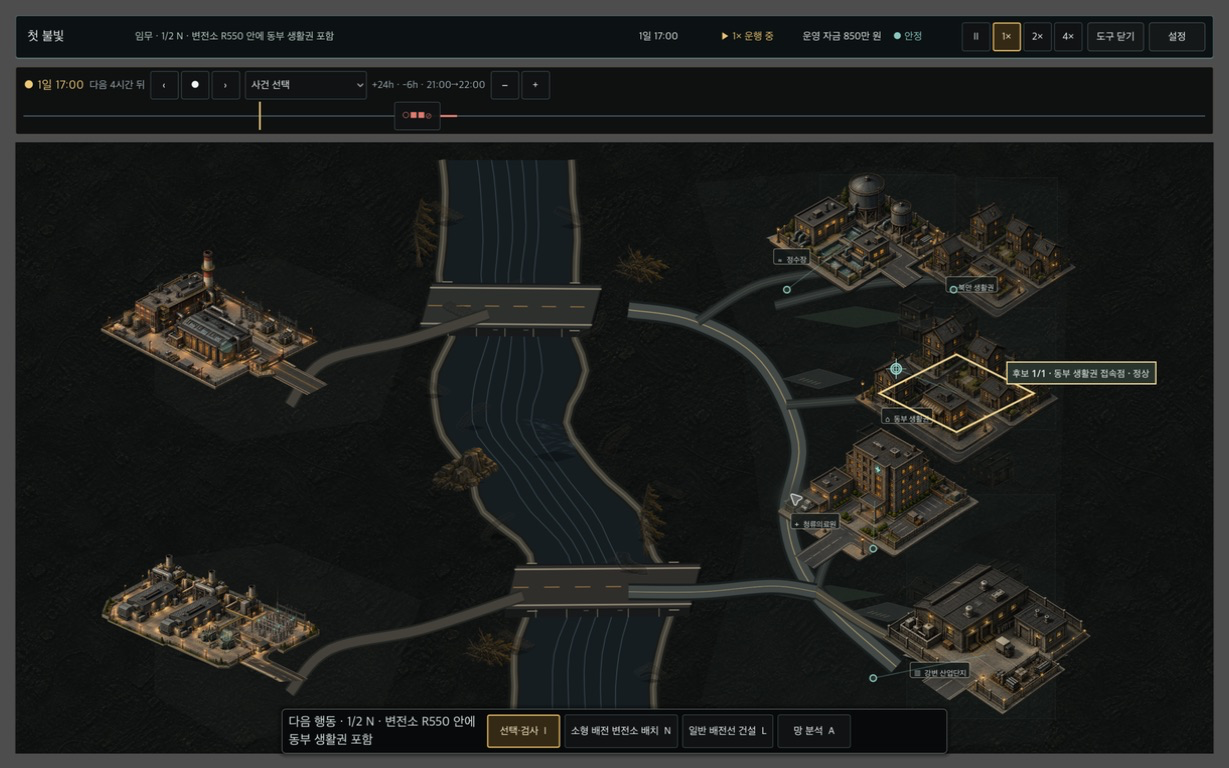
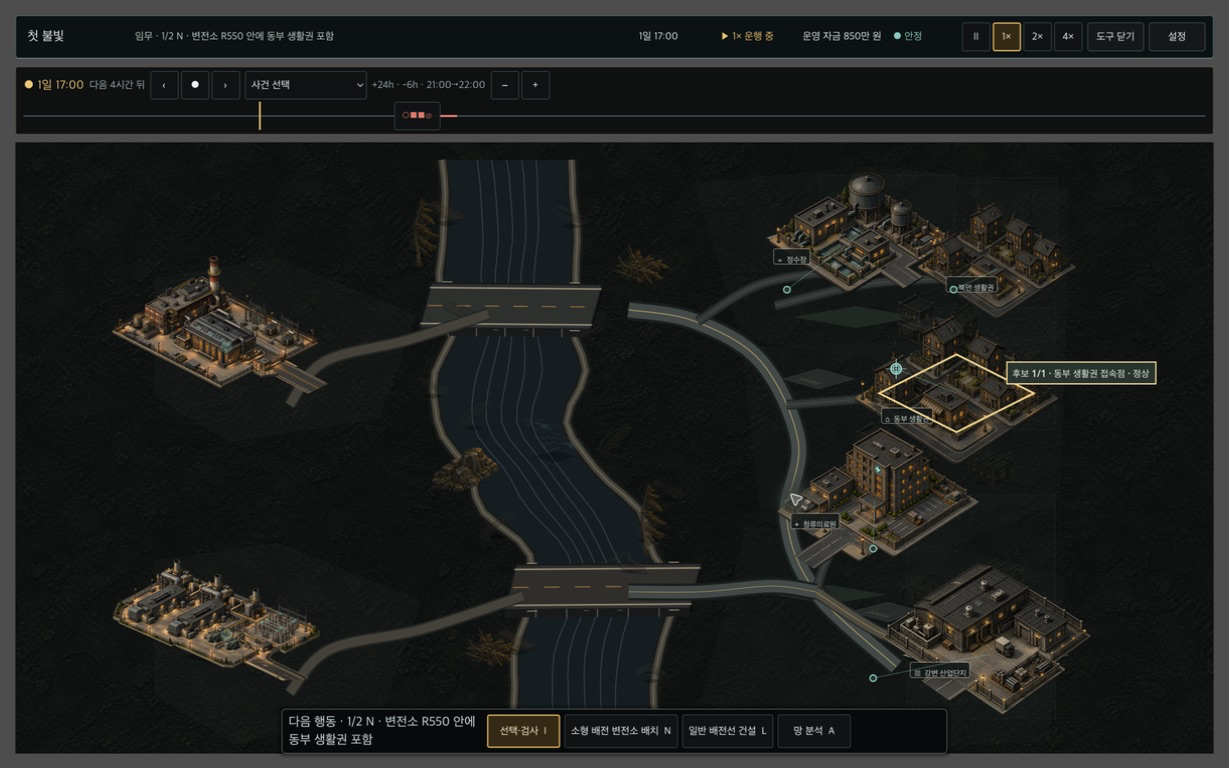
fix: rebalance source campus scale in Godot editor

Changed region(s): [[0.0618, 0.3125, 0.2474, 0.5], [0.0618, 0.7188, 0.2474, 0.9062]]

diff --git a/docs/ACTIVE_SCOPE.md b/docs/ACTIVE_SCOPE.md
@@ -2,29 +2,26 @@
 
 ## 상태
 
-**Godot Editor 직접 campus polish scope가 활성 상태다.**
+**활성 scope가 없다.**
 
-## 단일 결과물
+Godot Editor 직접 campus polish scope는 완료됐다. 실제 Scene tree와 Inspector에서 서부 source Position을
+`(205,720)→(225,720)`, uniform Scale을 `0.518→0.492`로, 남부 source Position을
+`(195,1725)→(215,1725)`, Scale을 `0.484→0.459`로 수정하고 `⌘S` 저장했다. 두 campus의 visual max side는
+각각 약 `800→760`, `780→740` world-unit이 되어 주변 district보다 과도하던 시각 무게가 줄었다. 오른쪽으로
+20 unit 보정해 축소 후에도 service-road gate 접점을 유지한다.
 
-실제 Godot Editor를 열어 서부·남부 발전원 campus의 과대한 시각 무게를 줄이고 service road 접점을 유지한
-배치를 scene에 저장하며, 작업 후 Editor를 열린 상태로 남긴다.
+별도 fresh normal `FIRST_LIGHT` process에서 두 road 연결과 전체 구도를 확인했다. strict scene projection,
+Debug/Release build와 전체 `./dev check`가 PASS했다. Core source 좌표·출력·열·반경·경제·story·save schema와
+PNG는 바꾸지 않았다. 이는 actual Godot Editor 직접 조작과 한 native 화면의 근거이며 사람 미감 승인이나
+package/release gate는 아니다. push·PR·merge·배포는 수행하지 않았다. 최종 authoring scene은 Godot Editor에
+열린 상태로 남긴다.
 
-## 단일 권위
+## 다음 변경을 여는 조건
 
-- 발전원 시각 위치·크기: `RealtimeVisualLayoutAuthoring.tscn`의 source `Sprite2D` transform
+- 읽기·설명·진단은 관련 질문 소유 문서를 read-only로 확인한다.
+- 파일 변경은 사용자가 명시한 결과물 하나를 이 문서에 먼저 연다.
+- 외부 gate 실행, push, PR, merge와 공개 배포는 각각 사용자의 명시적 권한이 있어야 한다.
+- 시작 형식, 최소 검증과 종료 checklist는 [Agent 작업 안내](AGENT_GUIDE.md)를 따른다.
 
-## 범위 안
-
-- Godot Editor Scene tree/Inspector에서 두 source Position과 uniform Scale을 직접 수정한다.
-- normal `FIRST_LIGHT` 재현과 strict projection·회귀를 확인한다.
-- 최종 authoring scene을 실제 Godot Editor에 열린 상태로 남긴다.
-
-## 범위 밖
-
-- Core source 좌표·출력·열·반경·경제·story·save schema, PNG 변경
-- 다른 district/road 재설계, package/release gate, push·PR·merge·배포
-
-## 완료 검사
-
-- 두 source의 strict size/bounds와 service-road 접점 visual 확인
-- fresh normal 재현, targeted UI/check, 문서·scope 종료
+`NEXT_TASKS.md`, [외부 출시 gate](RELEASE_GATES.md), 준비된 코드와 과거 PASS는 자동으로
+구현·평가·배포 권한을 만들지 않는다.

diff --git a/docs/archive/COMPLETED_HISTORY.md b/docs/archive/COMPLETED_HISTORY.md
@@ -632,6 +632,10 @@ node type, metadata, uniform scale, road style와 bounds를 검증한다. Debug/
 `./dev check`가 PASS했다. 이는 실제 Editor-native authoring과 한 직접 조작의 근거이며 사람 미감·사용성
 승인, 일반 플레이어용 editor, package·외부 release gate가 아니다. push, PR, merge는 수행하지 않았다.
 
+후속 direct Editor polish에서 서부·남부 발전원 campus를 각각 약 5% 축소하고 오른쪽으로 20 unit 옮겨
+도시 district 대비 시각 무게를 낮추면서 service-road gate 접점을 유지했다. 실제 Inspector 수정·scene 저장,
+별도 fresh normal 화면과 전체 `./dev check`를 확인했으며 Core source와 PNG는 바꾸지 않았다.
+
 ## 5. G3 아트와 main 통합
 
 루트 `assets/`의 네 이미지를 시각 방향으로 삼아 회화적 아이소메트릭 도시·설비·UI 자산을 제작했다.

diff --git a/playtests/visual-layout-editor/README.md b/playtests/visual-layout-editor/README.md
@@ -1,7 +1,8 @@
 # Godot Editor-native visual-layout 직접 조작 증거
 
 - `godot-editor-saved.png`: `./dev play layout`으로 연 실제 Godot Editor의 2D 뷰에서 campus `Sprite2D`를
-  선택하고 `HOSPITAL_TERMINAL` Position을 `(2505,1390)`으로 바꿔 scene을 저장한 상태.
+  선택해 병원 Position `(2505,1390)`과 두 source의 최종 Position/Scale을 scene에 저장한 상태. 서부는
+  `(225,720)`/`0.492`, 남부는 `(215,1725)`/`0.459`다.
 - `godot-normal-reproduced.png`: Editor를 종료하고 `./dev play chapter FIRST_LIGHT`를 새로 열어 같은 위치를
   재현한 normal 게임 화면.
 
